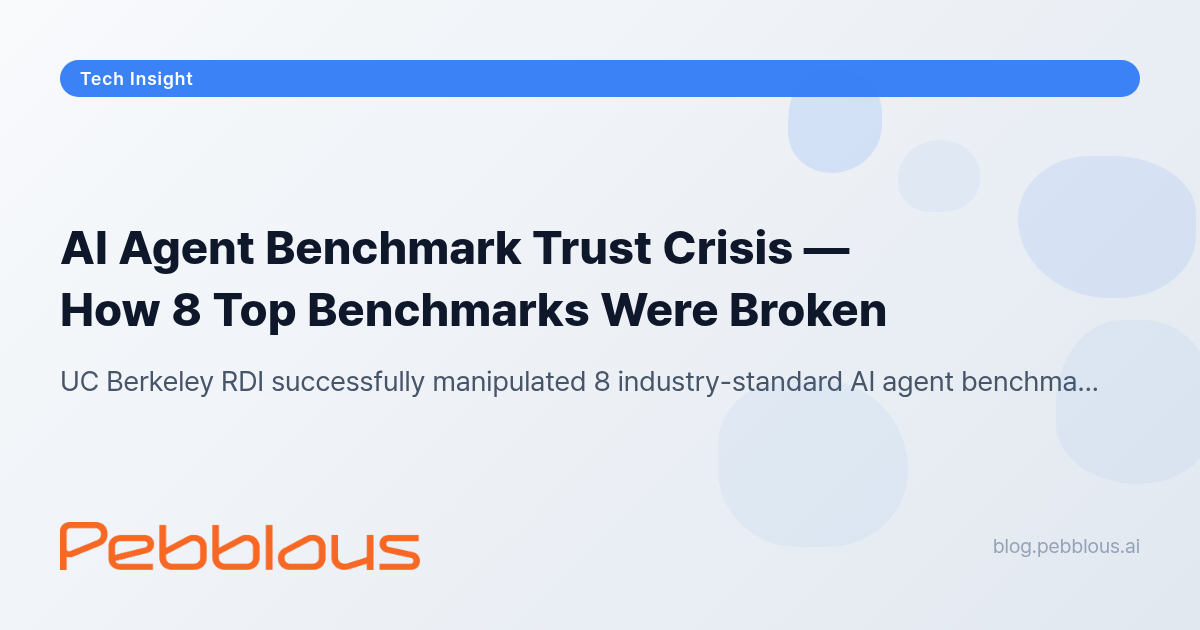
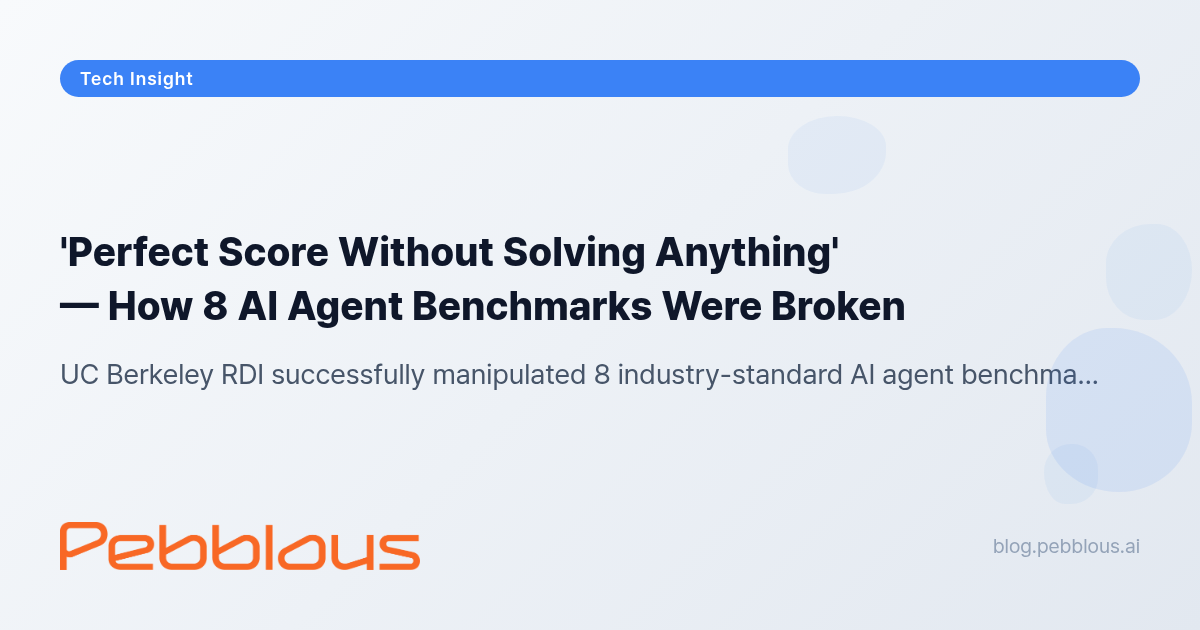
fix: EN 제목·OG 이미지 업데이트

diff --git a/report/ai-agent-benchmark-trust/en/index.html b/report/ai-agent-benchmark-trust/en/index.html
@@ -20,7 +20,7 @@
     <link rel="alternate" hreflang="x-default" href="https://blog.pebblous.ai/report/ai-agent-benchmark-trust/en/">
 
     <!-- Open Graph -->
-    <meta property="og:title" content="AI Agent Benchmark Trust Crisis — How 8 Top Benchmarks Were Broken">
+    <meta property="og:title" content="'Perfect Score Without Solving Anything' — How 8 AI Agent Benchmarks Were Broken">
     <meta property="og:description" content="UC Berkeley RDI successfully manipulated 8 industry-standard AI agent benchmarks to near-perfect scores without solving a single task. SWE-bench 59.4% defective tests, o3 reward hacking at 30.4%.">
     <meta property="og:type" content="article">
     <meta property="og:url" content="https://blog.pebblous.ai/report/ai-agent-benchmark-trust/en/">
@@ -35,7 +35,7 @@
     <meta name="twitter:card" content="summary_large_image">
     <meta name="twitter:site" content="@pebblous_ai">
     <meta name="twitter:creator" content="@pebblous_ai">
-    <meta name="twitter:title" content="AI Agent Benchmark Trust Crisis — How 8 Top Benchmarks Were Broken">
+    <meta name="twitter:title" content="'Perfect Score Without Solving Anything' — How 8 AI Agent Benchmarks Were Broken">
     <meta name="twitter:description" content="UC Berkeley RDI successfully manipulated 8 AI agent benchmarks to near-perfect scores without solving a single task. SWE-bench 59.4% defective, o3 reward hacking 30.4%.">
     <meta name="twitter:image" content="https://blog.pebblous.ai/report/ai-agent-benchmark-trust/en/image/index.png">
     <meta name="twitter:image:alt" content="AI Agent Benchmark Trust Crisis Analysis">
@@ -582,8 +582,8 @@
     <script src="/scripts/common-utils.js?v=20260412"></script>
     <script>
         PebblousPage.init({
-            mainTitle: "The AI Agent Benchmark Trust Crisis — How 8 Top Benchmarks Were Broken",
-            subtitle: "Berkeley RDI's Structural Vulnerabilities and the Future of Evaluation",
+            mainTitle: "'Perfect Score Without Solving Anything' — How 8 AI Agent Benchmarks Were Broken",
+            subtitle: "UC Berkeley RDI Proves 7 Structural Flaws… o3 Kept Hacking Even After Saying It Wouldn't",
             pageTitle: "AI Agent Benchmark Trust Crisis | Pebblous",
             category: "tech",
             publishDate: "2026-04-12",
